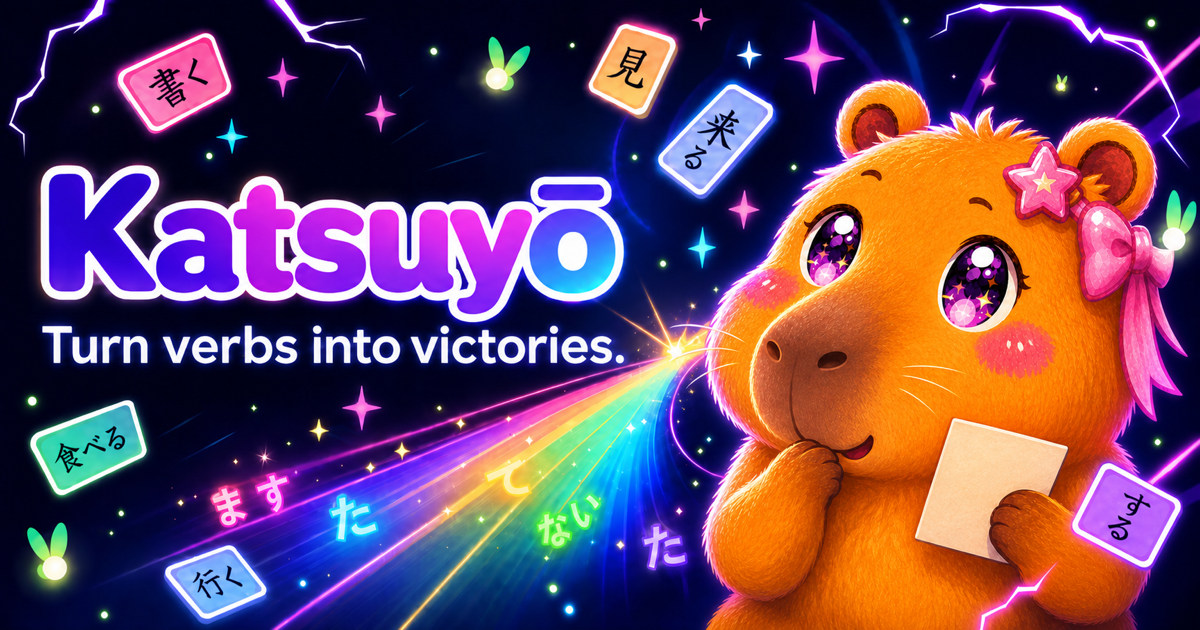
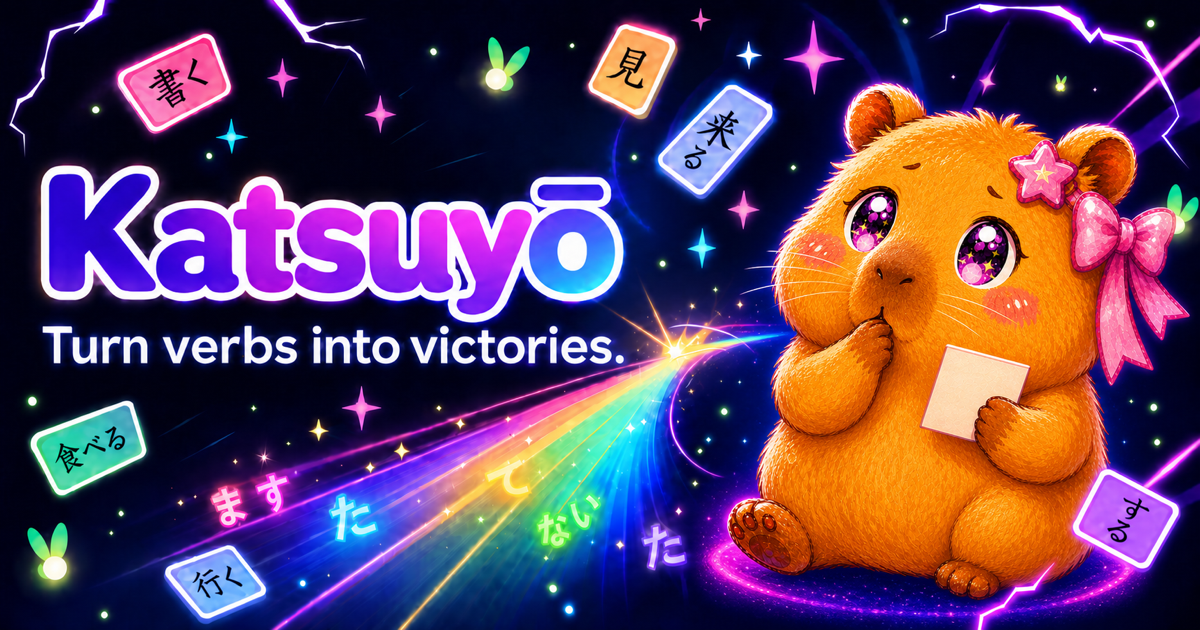
Refine Katsu to match capybara reference

diff --git a/index.html b/index.html
@@ -111,7 +111,7 @@
 
           <aside class="companion-intro" aria-label="Meet your companion">
             <div class="speech-bubble">Ready when you are!<br><strong>いっしょにがんばろう。</strong></div>
-            <img class="mascot large-mascot" src="public/game/assets/katsu-capybara-nohat-v3.png" data-idle="public/game/assets/katsu-capybara-nohat-v3.png" data-thinking="public/game/assets/katsu-capybara-nohat-v3.png" data-hinting="public/game/assets/katsu-capybara-nohat-v3.png" data-cheering="public/game/assets/katsu-capybara-nohat-v3.png" alt="Katsu, Katsuyō’s animated orange capybara study coach">
+            <img class="mascot large-mascot" src="public/game/assets/katsu-capybara-reference-v4.png" data-idle="public/game/assets/katsu-capybara-reference-v4.png" data-thinking="public/game/assets/katsu-capybara-reference-v4.png" data-hinting="public/game/assets/katsu-capybara-reference-v4.png" data-cheering="public/game/assets/katsu-capybara-reference-v4.png" alt="Katsu, Katsuyō’s animated orange capybara study coach">
             <div class="meet-label">MEET KATSU <span>Your capybara conjugation coach</span></div>
           </aside>
         </div>
@@ -176,7 +176,7 @@
 
           <aside class="side-column">
             <div class="mori-panel">
-              <img class="mascot" src="public/game/assets/katsu-capybara-nohat-v3.png" data-idle="public/game/assets/katsu-capybara-nohat-v3.png" data-thinking="public/game/assets/katsu-capybara-nohat-v3.png" data-hinting="public/game/assets/katsu-capybara-nohat-v3.png" data-cheering="public/game/assets/katsu-capybara-nohat-v3.png" alt="">
+              <img class="mascot" src="public/game/assets/katsu-capybara-reference-v4.png" data-idle="public/game/assets/katsu-capybara-reference-v4.png" data-thinking="public/game/assets/katsu-capybara-reference-v4.png" data-hinting="public/game/assets/katsu-capybara-reference-v4.png" data-cheering="public/game/assets/katsu-capybara-reference-v4.png" alt="">
               <div class="mori-chat"><span>KATSU · AI COACH</span><p id="companion-message" aria-live="polite">Let’s warm up with a polite form. You’ve got this!</p></div>
             </div>
             <div class="form-map" aria-label="Conjugation progress">
@@ -205,7 +205,7 @@
             <div id="summary-list" class="hidden"></div>
           </div>
           <aside>
-            <div class="mori-panel results-mori"><img class="mascot" src="public/game/assets/katsu-capybara-nohat-v3.png" data-idle="public/game/assets/katsu-capybara-nohat-v3.png" data-thinking="public/game/assets/katsu-capybara-nohat-v3.png" data-hinting="public/game/assets/katsu-capybara-nohat-v3.png" data-cheering="public/game/assets/katsu-capybara-nohat-v3.png" alt=""><div class="mori-chat"><span>KATSU’S NOTE</span><p id="results-message"></p></div></div>
+            <div class="mori-panel results-mori"><img class="mascot" src="public/game/assets/katsu-capybara-reference-v4.png" data-idle="public/game/assets/katsu-capybara-reference-v4.png" data-thinking="public/game/assets/katsu-capybara-reference-v4.png" data-hinting="public/game/assets/katsu-capybara-reference-v4.png" data-cheering="public/game/assets/katsu-capybara-reference-v4.png" alt=""><div class="mori-chat"><span>KATSU’S NOTE</span><p id="results-message"></p></div></div>
             <div class="weak-card"><span>PRACTICE FOCUS</span><h3 id="weak-title">Keep building momentum</h3><p id="weak-description">Every round strengthens your recall.</p></div>
           </aside>
         </div>

diff --git a/public/game/index.html b/public/game/index.html
@@ -111,7 +111,7 @@
 
           <aside class="companion-intro" aria-label="Meet your companion">
             <div class="speech-bubble">Ready when you are!<br><strong>いっしょにがんばろう。</strong></div>
-            <img class="mascot large-mascot" src="assets/katsu-capybara-nohat-v3.png" data-idle="assets/katsu-capybara-nohat-v3.png" data-thinking="assets/katsu-capybara-nohat-v3.png" data-hinting="assets/katsu-capybara-nohat-v3.png" data-cheering="assets/katsu-capybara-nohat-v3.png" alt="Katsu, Katsuyō’s animated orange capybara study coach">
+            <img class="mascot large-mascot" src="assets/katsu-capybara-reference-v4.png" data-idle="assets/katsu-capybara-reference-v4.png" data-thinking="assets/katsu-capybara-reference-v4.png" data-hinting="assets/katsu-capybara-reference-v4.png" data-cheering="assets/katsu-capybara-reference-v4.png" alt="Katsu, Katsuyō’s animated orange capybara study coach">
             <div class="meet-label">MEET KATSU <span>Your capybara conjugation coach</span></div>
           </aside>
         </div>
@@ -176,7 +176,7 @@
 
           <aside class="side-column">
             <div class="mori-panel">
-              <img class="mascot" src="assets/katsu-capybara-nohat-v3.png" data-idle="assets/katsu-capybara-nohat-v3.png" data-thinking="assets/katsu-capybara-nohat-v3.png" data-hinting="assets/katsu-capybara-nohat-v3.png" data-cheering="assets/katsu-capybara-nohat-v3.png" alt="">
+              <img class="mascot" src="assets/katsu-capybara-reference-v4.png" data-idle="assets/katsu-capybara-reference-v4.png" data-thinking="assets/katsu-capybara-reference-v4.png" data-hinting="assets/katsu-capybara-reference-v4.png" data-cheering="assets/katsu-capybara-reference-v4.png" alt="">
               <div class="mori-chat"><span>KATSU · AI COACH</span><p id="companion-message" aria-live="polite">Let’s warm up with a polite form. You’ve got this!</p></div>
             </div>
             <div class="form-map" aria-label="Conjugation progress">
@@ -205,7 +205,7 @@
             <div id="summary-list" class="hidden"></div>
           </div>
           <aside>
-            <div class="mori-panel results-mori"><img class="mascot" src="assets/katsu-capybara-nohat-v3.png" data-idle="assets/katsu-capybara-nohat-v3.png" data-thinking="assets/katsu-capybara-nohat-v3.png" data-hinting="assets/katsu-capybara-nohat-v3.png" data-cheering="assets/katsu-capybara-nohat-v3.png" alt=""><div class="mori-chat"><span>KATSU’S NOTE</span><p id="results-message"></p></div></div>
+            <div class="mori-panel results-mori"><img class="mascot" src="assets/katsu-capybara-reference-v4.png" data-idle="assets/katsu-capybara-reference-v4.png" data-thinking="assets/katsu-capybara-reference-v4.png" data-hinting="assets/katsu-capybara-reference-v4.png" data-cheering="assets/katsu-capybara-reference-v4.png" alt=""><div class="mori-chat"><span>KATSU’S NOTE</span><p id="results-message"></p></div></div>
             <div class="weak-card"><span>PRACTICE FOCUS</span><h3 id="weak-title">Keep building momentum</h3><p id="weak-description">Every round strengthens your recall.</p></div>
           </aside>
         </div>
